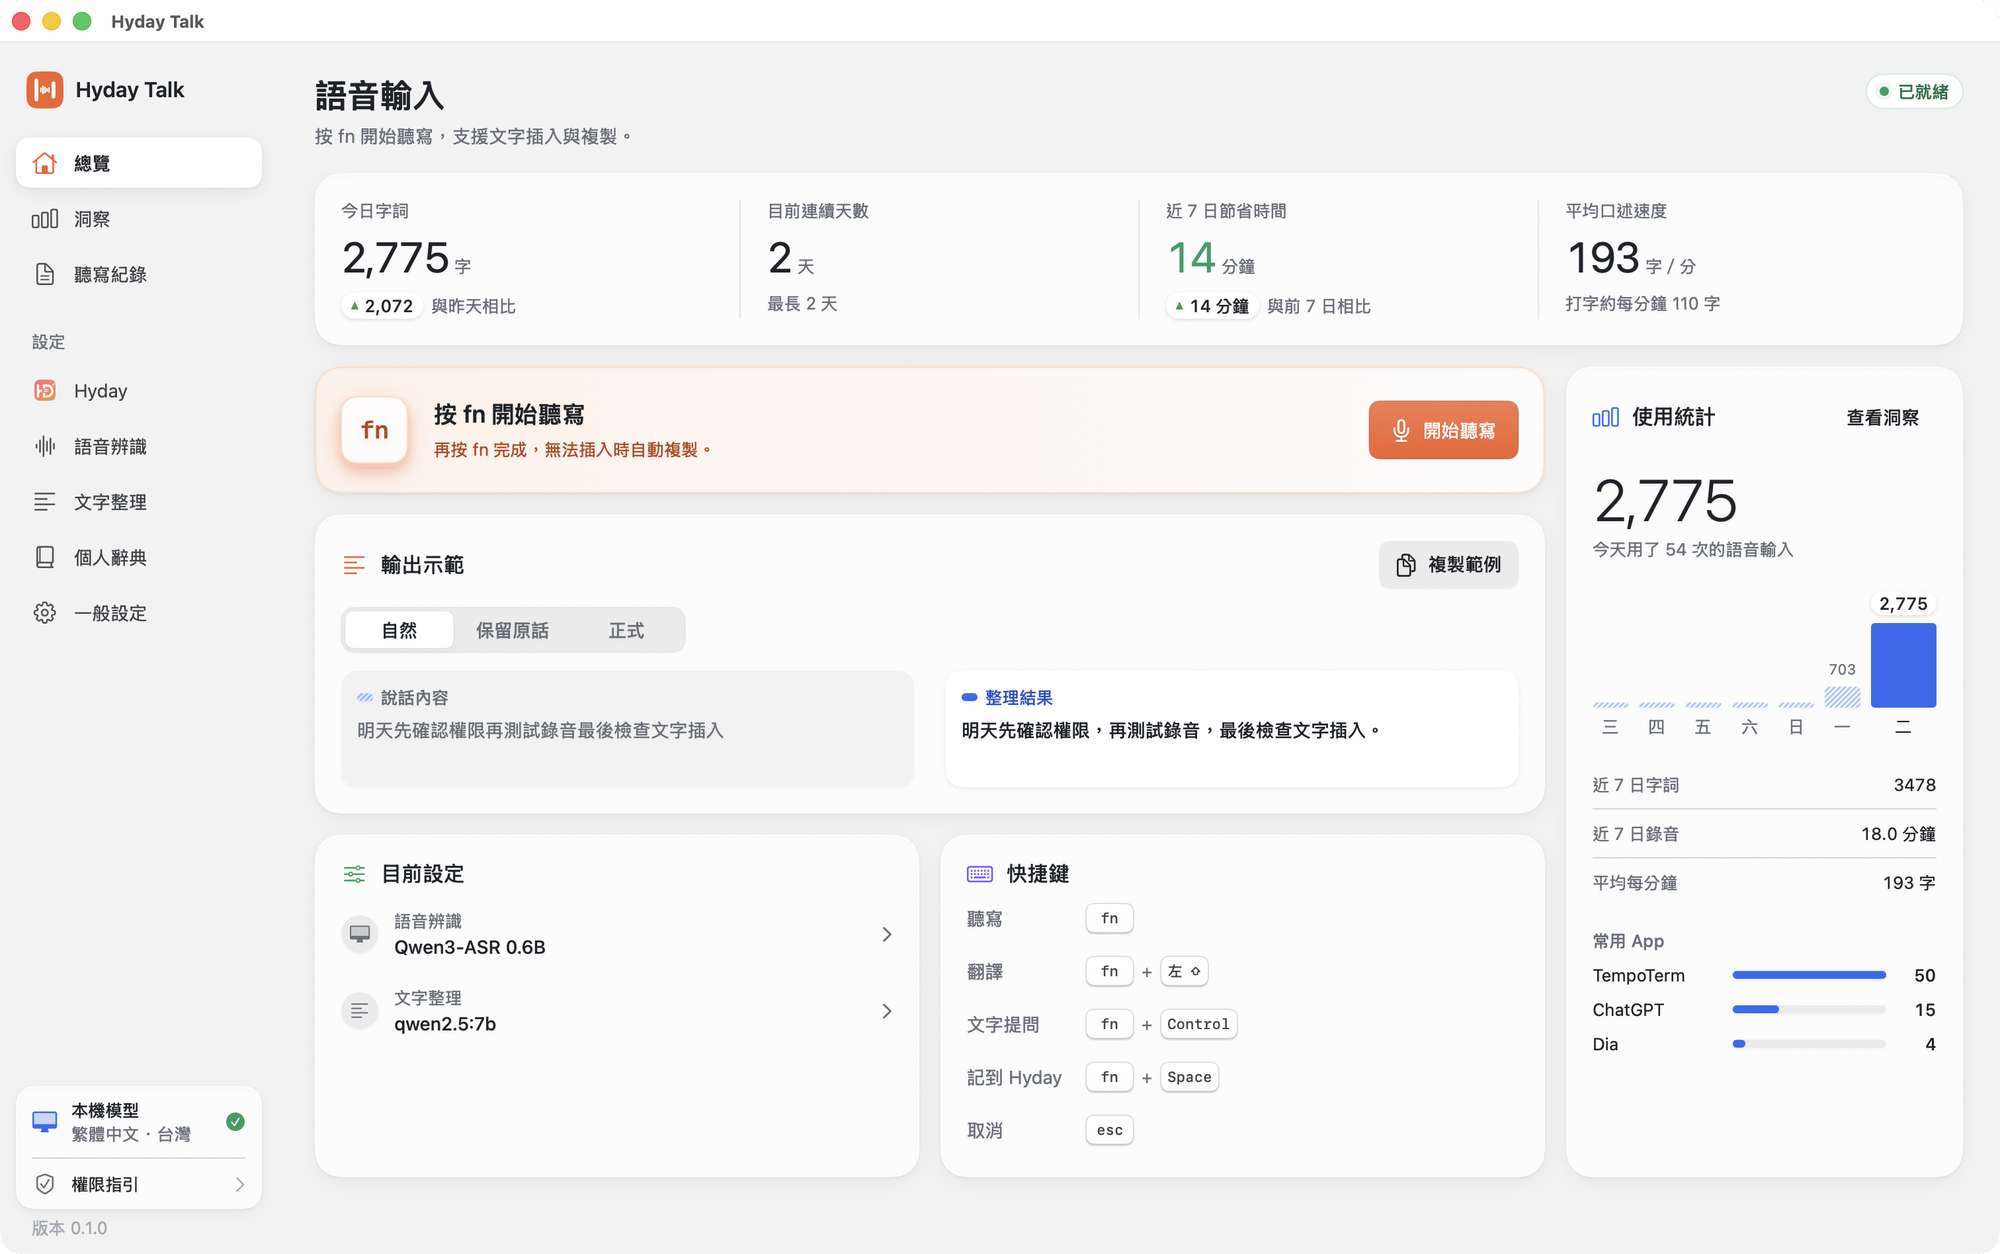
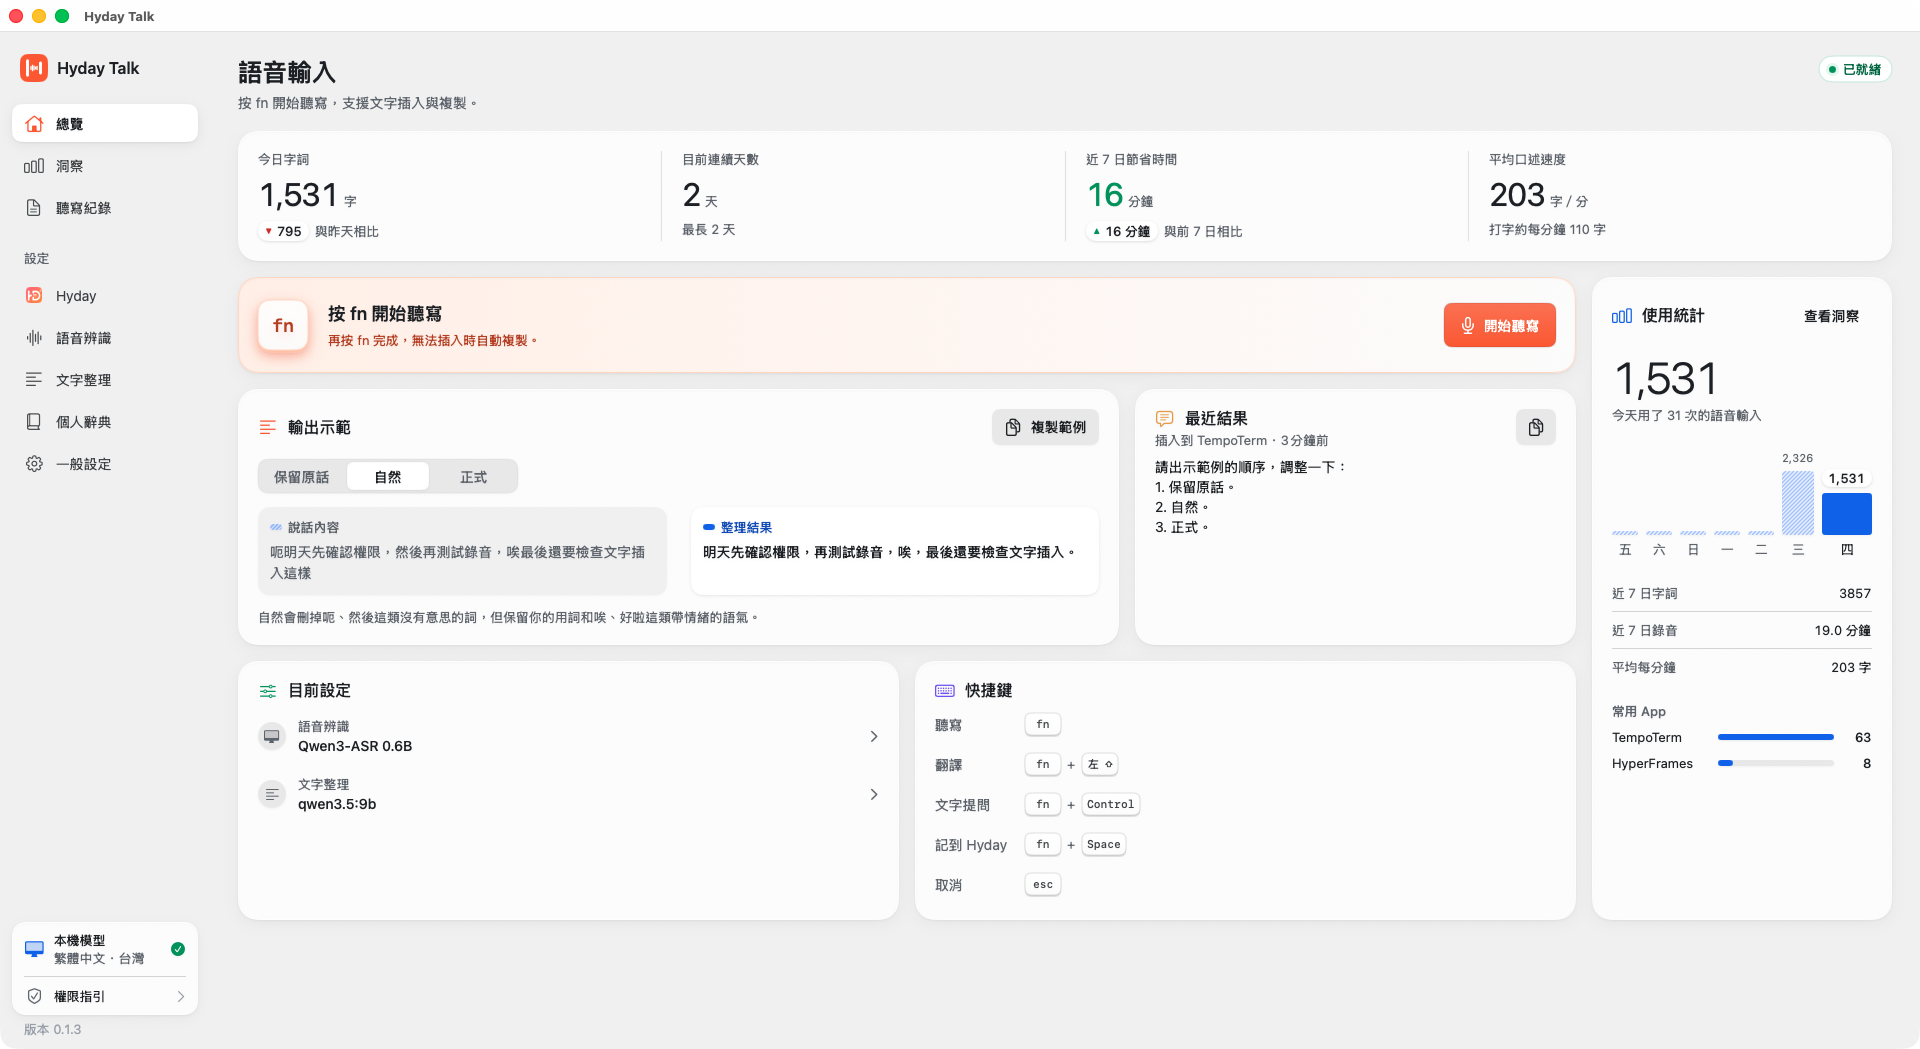
Order styles from verbatim to professional and demo filler removal
The home demo now uses a sentence with fillers and says in one line what
the selected style keeps and drops. The README screenshot shows the new
home layout.

diff --git a/Sources/HydayTalk/Views.swift b/Sources/HydayTalk/Views.swift
@@ -172,13 +172,22 @@ struct HomeView: View {
     @State private var resultExpanded = false
     @State private var resultOverflows = false
     @State private var homeWidth: CGFloat = 1000
-    private var previewInput: String { "明天先確認權限再測試錄音最後檢查文字插入" }
+    private var previewInput: String { "呃明天先確認權限，然後再測試錄音，唉最後還要檢查文字插入這樣" }
     private var previewOutput: String {
         guard model.settings.requiresTextModel(for: .dictate), model.settings.textBackend != .basic else { return previewInput }
-        let text = model.settings.writingStyle == .professional
-            ? "請於明天確認權限、測試錄音並檢查文字插入。"
-            : "明天先確認權限，再測試錄音，最後檢查文字插入。"
-        return text
+        switch model.settings.writingStyle {
+        case .verbatim: return previewInput
+        case .natural: return "明天先確認權限，再測試錄音，唉，最後還要檢查文字插入。"
+        case .professional: return "明天確認權限、測試錄音，並檢查文字插入。"
+        }
+    }
+    /// One line on what the selected style keeps and drops.
+    private var styleNote: String {
+        switch model.settings.writingStyle {
+        case .verbatim: return "保留原話會照辨識結果輸出，不刪任何字，也跳過 AI 整理與排版。"
+        case .natural: return "自然會刪掉呃、然後這類沒有意思的詞，但保留你的用詞和唉、好啦這類帶情緒的語氣。"
+        case .professional: return "正式會刪掉所有語助詞和口頭禪，並改成簡潔的書面用語。"
+        }
     }
     var body: some View {
         VStack(alignment: .leading, spacing: 16) {
@@ -337,12 +346,13 @@ struct HomeView: View {
                 if model.settings.textBackend == .basic {
                     Text("風格需要文字 AI，可從下方「文字整理」啟用。")
                         .font(Typography.font(.caption)).foregroundStyle(Palette.muted)
-                } else if model.settings.writingStyle == .verbatim {
-                    Text("保留原話會跳過 AI 整理與排版。")
-                        .font(Typography.font(.caption)).foregroundStyle(Palette.muted)
                 }
             }
             HomeOutputComparison(input: previewInput, output: previewOutput)
+            if model.settings.textBackend != .basic {
+                Text(styleNote).font(Typography.font(.caption)).foregroundStyle(Palette.muted)
+                    .fixedSize(horizontal: false, vertical: true)
+            }
         }.frame(maxHeight: .infinity, alignment: .topLeading).surface()
     }
     private var speechModelName: String {
